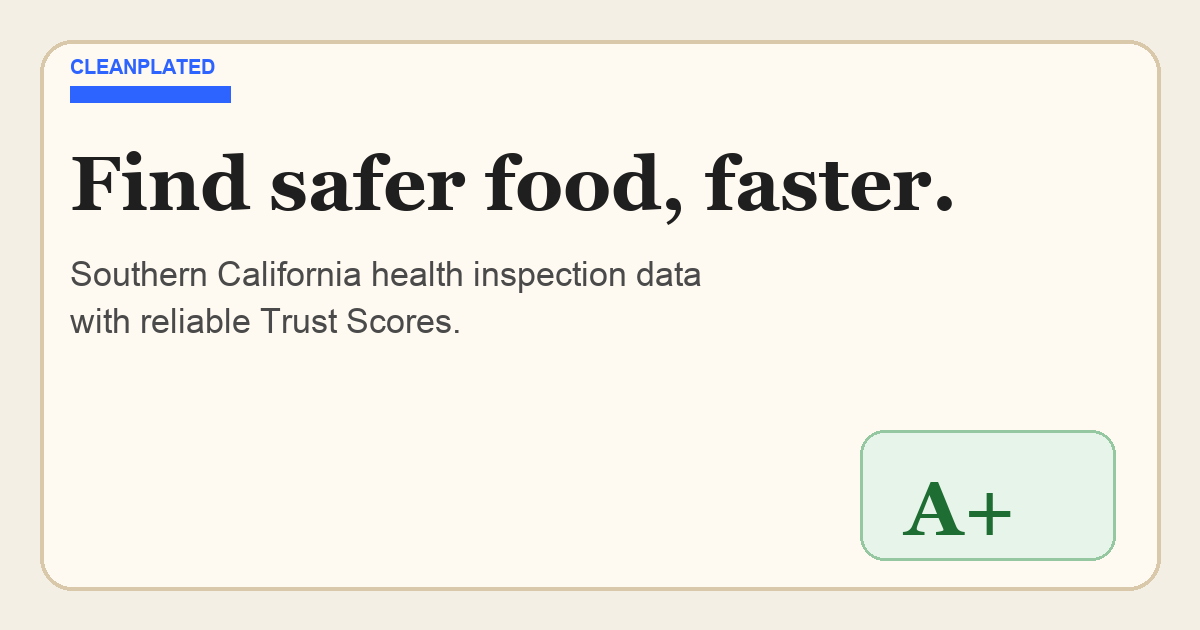
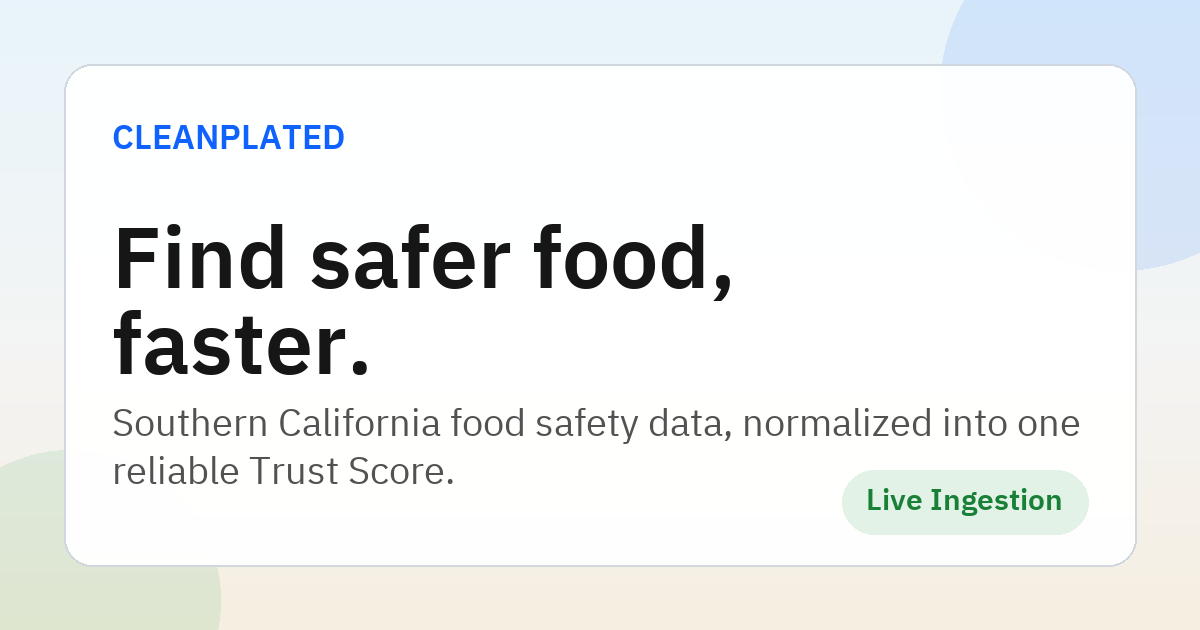
Refresh social preview branding, footer attribution, and Cloud Build asset ignore

Changed region(s): [[0.0308, 0.0, 1.0, 0.9651], [0.0925, 0.7238, 0.37, 0.7841]]

diff --git a/frontend/src/style.css b/frontend/src/style.css
@@ -242,6 +242,81 @@ body {
   margin-top: 0.8rem;
 }
 
+.trust-footer {
+  width: min(1080px, calc(100% - 1rem));
+  margin: 0 auto 1.5rem;
+  padding: 1rem 0;
+}
+
+.trust-footer__inner {
+  background: #ffffffd4;
+  border: 1px solid #d0d7de;
+  border-radius: 0.5rem;
+  padding: 1rem;
+  display: grid;
+  gap: 0.65rem;
+}
+
+.trust-footer__brand {
+  margin: 0;
+  color: #0f62fe;
+  font-size: 0.875rem;
+  letter-spacing: 0.08em;
+  font-weight: 700;
+  text-transform: uppercase;
+}
+
+.trust-footer__copy,
+.trust-footer__meta p {
+  margin: 0.15rem 0 0;
+  color: #525252;
+  font-size: 0.875rem;
+}
+
+.trust-footer__meta {
+  display: grid;
+  gap: 0.2rem;
+}
+
+.trust-footer__credit {
+  display: inline-flex;
+  flex-wrap: wrap;
+  align-items: center;
+  gap: 0.3rem;
+}
+
+.trust-footer__logo {
+  width: 1rem;
+  height: 1rem;
+  display: inline-block;
+}
+
+.trust-footer__credit a {
+  color: #0f62fe;
+  text-decoration: none;
+}
+
+.trust-footer__credit a:hover {
+  text-decoration: underline;
+}
+
+.trust-footer__links {
+  display: flex;
+  flex-wrap: wrap;
+  gap: 0.65rem 1rem;
+}
+
+.trust-footer__links a {
+  color: #0f62fe;
+  text-decoration: none;
+  font-size: 0.875rem;
+  font-weight: 600;
+}
+
+.trust-footer__links a:hover {
+  text-decoration: underline;
+}
+
 @media (min-width: 768px) {
   .trust-app {
     width: min(1080px, calc(100% - 2rem));
@@ -277,5 +352,21 @@ body {
   .trust-topten__actions {
     grid-column: auto;
     flex-direction: column;
+  }
+
+  .trust-footer {
+    width: min(1080px, calc(100% - 2rem));
+    padding: 0.6rem 0 1.6rem;
+  }
+
+  .trust-footer__inner {
+    grid-template-columns: 1fr auto auto;
+    align-items: center;
+    gap: 1.2rem;
+    padding: 1rem 1.2rem;
+  }
+
+  .trust-footer__meta {
+    justify-items: end;
   }
 }

diff --git a/frontend/src/App.vue b/frontend/src/App.vue
@@ -699,7 +699,7 @@ onMounted(async () => {
       </cv-tile>
     </section>
 
-    <section class="trust-panel">
+    <section id="data-sources" class="trust-panel">
       <header class="trust-section-head">
         <h2 class="trust-heading">Filter Results</h2>
         <cv-tag :label="`${totalMatches.toLocaleString()} result(s)`" kind="cool-gray" />
@@ -893,4 +893,29 @@ onMounted(async () => {
       </cv-structured-list>
     </section>
   </main>
+
+  <footer class="trust-footer">
+    <div class="trust-footer__inner">
+      <div>
+        <p class="trust-footer__brand">CleanPlated</p>
+        <p class="trust-footer__copy">
+          Southern California inspection data, normalized into one reliable Trust Score.
+        </p>
+      </div>
+      <div class="trust-footer__meta">
+        <p>Latest ingestion: {{ lastRefreshLabel }}</p>
+        <p class="trust-footer__credit">
+          Built with
+          <img src="/omega-purple.svg" alt="Cipher Labs logo" class="trust-footer__logo" loading="lazy" />
+          by
+          <a href="https://thecipherlabs.com" target="_blank" rel="noopener noreferrer">Cipher Labs</a>
+          &copy; {{ new Date().getFullYear() }} CleanPlated
+        </p>
+      </div>
+      <nav class="trust-footer__links" aria-label="Footer links">
+        <a href="#data-sources">Data sources</a>
+        <a href="https://thecipherlabs.com" target="_blank" rel="noopener noreferrer">Cipher Labs</a>
+      </nav>
+    </div>
+  </footer>
 </template>
